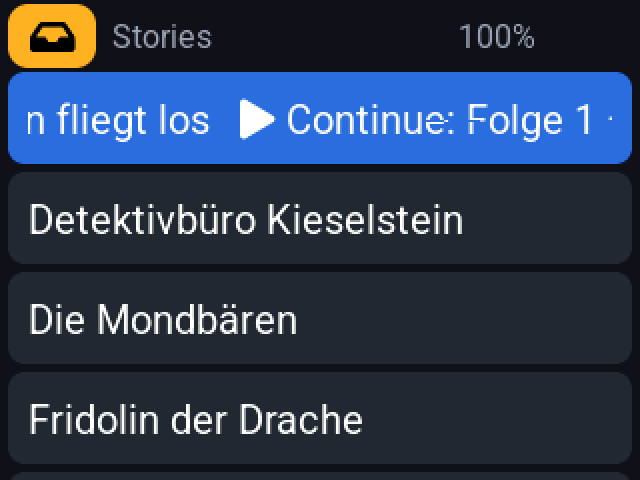
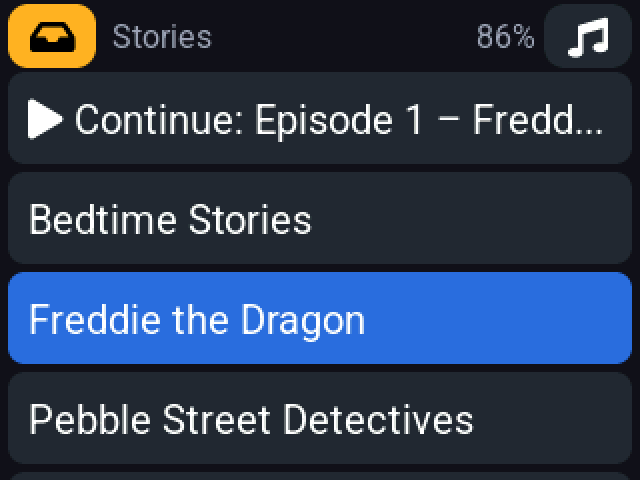
Website: findable and shareable, English screenshots, clearer FAQ
- CI writes the German texts into index.html (tools/prerender.mjs), so
  search engines and link previews see the page without JavaScript;
  home.js stays the only source. Open Graph image and tags, canonical,
  robots.txt, sitemap.xml, a page title that says what it is.
- FAQ: we sell nothing, the device comes from its maker or a shop;
  how it differs from a Toniebox; other ESP32 devices (requests and
  ports welcome); library CDs may be copied privately in Germany.
- The English page shows English screenshots from an English demo
  library.
- Firmware: the ripper screen showed the CD type and the NAS counter
  in German on English devices.

diff --git a/web/home.js b/web/home.js
@@ -2,7 +2,7 @@
 // Texts are our own and may contain simple markup, so they go in as HTML.
 const TEXTS = {
   de: {
-    page_title: "Flüstertüte – Hörspiele vom eigenen NAS",
+    page_title: "Flüstertüte – Hörspiel-Player für Kinder, direkt vom eigenen NAS",
     hero_title: "Hörspiele, die durch die Luft kommen.",
     hero_lead: "Die Flüstertüte ist ein kleiner Hörspiel-Player für Kinder. Er spielt die Hörspiele, die Sie schon haben – per WLAN direkt von Ihrem eigenen NAS. <b>Ohne Figuren zum Nachkaufen, ohne Cloud, ohne Konto.</b>",
     cta_setup: "Jetzt einrichten",
@@ -63,7 +63,7 @@ const TEXTS = {
     kids_6_t: "Neues kommt von allein",
     kids_6: "Legen Sie ein neues Hörspiel auf das NAS, taucht es kurz darauf auf dem Gerät auf. Kein Kabel, kein Kopieren.",
     need_title: "Was Sie brauchen",
-    need_lead: "Eines dieser beiden Geräte. Beide gibt es fertig zu kaufen, mit Bildschirm und Lautsprecher, und beide lassen sich ohne Löten einrichten.",
+    need_lead: "Eines dieser beiden Geräte. Beide gibt es fertig zu kaufen, mit Bildschirm und Lautsprecher, bei den Herstellern LilyGo bzw. M5Stack oder im Elektronikhandel, und beide lassen sich ohne Löten einrichten.",
     dev_tdeck: "Mit kleiner Tastatur und Trackball. Gut für Kinder, die schon lesen und selbst suchen wollen. Läuft auch ganz ohne Akku, einfach an einem USB-Netzteil, etwa fest neben dem Bett. Wer ihn herumtragen will, bestellt einen Akku dazu (je nach Angebot ist er schon dabei).",
     dev_core2: "Ein kompaktes Kästchen mit Touchscreen und eingebautem Akku. Gut für die Kleineren. Wichtig: Version <b>v1.1</b>.",
     need_nas: "<b>Ein NAS mit Ihren Hörspielen.</b> Am einfachsten eine Synology; sonst jedes NAS oder jeder Server mit WebDAV (QNAP, Nextcloud und viele mehr).",
@@ -91,13 +91,17 @@ const TEXTS = {
     faq_nas_q: "Ich habe kein NAS. Geht es trotzdem?",
     faq_nas_a: "Die Flüstertüte braucht einen Ort, der die Dateien per WebDAV oder als Synology-Freigabelink anbietet. Das kann auch eine Nextcloud oder ein anderer Server sein, den Sie schon haben. Eine reine USB-Festplatte oder Speicherkarte genügt nicht.",
     faq_where_q: "Woher kommen die Hörspiele?",
-    faq_where_a: "Von Ihnen: von Ihren eigenen CDs, am bequemsten mit der <a href=\"#cd-station\">CD-Ripstation</a> oder einem Programm am Computer, oder aus gekauften MP3-Downloads. Die Flüstertüte bringt keine Hörspiele mit und lädt nichts aus dem Internet.",
+    faq_where_a: "Von Ihnen: von Ihren eigenen CDs, am bequemsten mit der <a href=\"#cd-station\">CD-Ripstation</a> oder einem Programm am Computer, oder aus gekauften MP3-Downloads. Auch CDs aus der Bücherei kommen in Frage: In Deutschland erlaubt das Urheberrecht einzelne Kopien für den privaten Gebrauch, auch von geliehenen CDs (§ 53 UrhG); die Kopie bleibt in der Familie. <i>(Keine Rechtsberatung; in anderen Ländern kann das anders sein.)</i> Die Flüstertüte bringt keine Hörspiele mit und lädt nichts aus dem Internet.",
     faq_safe_q: "Ist das sicher für Kinder?",
     faq_safe_a: "Das Gerät kann nur Ihre Hörspiele abspielen. Es hat keinen Browser, keine Werbung, keinen Shop und kein Konto. Es kennt nur Ihren Ordner und liest dort nur; es ändert oder löscht nie etwas.",
     faq_pw_q: "Was passiert mit meinen Passwörtern?",
     faq_pw_a: "Die Einrichtungsseite läuft komplett in Ihrem Browser. WLAN- und NAS-Passwort gehen über das USB-Kabel direkt aufs Gerät, nicht an uns und nicht ins Internet. Bei Synology kennt das Gerät außerdem nur den Freigabelink, nie Ihr Konto-Passwort.",
+    faq_tonie_q: "Was ist anders als bei einer Toniebox?",
+    faq_tonie_a: "Die Toniebox spielt Inhalte, die zu gekauften Figuren gehören oder aus der Cloud des Herstellers kommen; dafür braucht es ein Konto. Die Flüstertüte spielt einfach die Dateien, die schon auf Ihrem NAS liegen: keine Figuren, kein Konto, keine Hersteller-Cloud. Ihr Kind wählt die Folge auf dem Bildschirm aus. Dafür ist sie ein Bastelprojekt: Sie kaufen selbst ein fertiges Gerät (T-Deck oder Core2) im Handel und spielen die Software im Browser auf. „Toniebox“ ist eine Marke der tonies GmbH; die Flüstertüte hat damit nichts zu tun.",
     faq_cost_q: "Was kostet das?",
-    faq_cost_a: "Die Software ist kostenlos und quelloffen (MIT-Lizenz). Sie kaufen nur das Gerät, einmal. Keine Abos, keine Figuren.",
+    faq_cost_a: "Die Flüstertüte ist kostenlos und quelloffen (MIT-Lizenz). Wir verkaufen nichts: Das Gerät kaufen Sie selbst, direkt beim Hersteller (LilyGo bzw. M5Stack) oder im Elektronikhandel, einmal. Danach kostet nichts mehr etwas: keine Abos, keine Figuren, kein Konto.",
+    faq_port_q: "Läuft die Flüstertüte auch auf anderen Geräten?",
+    faq_port_a: "Bisher auf dem LilyGo T-Deck und dem M5Stack Core2. Die Software lässt sich aber auf andere ESP32-Geräte mit Touchscreen, Lautsprecher, WLAN und PSRAM übertragen; davon gibt es viele. Haben Sie ein solches Gerät und hätten es gern unterstützt? Wünsche sind willkommen: als Issue auf <a href=\"https://github.com/zeromips/fluestertuete/issues\">GitHub</a> oder per Mail an <a href=\"mailto:fluestertuete@zeromips.org\">fluestertuete@zeromips.org</a>. Wer selbst portiert, ist mit einem Pull Request herzlich eingeladen.",
     faq_browser_q: "Geht das Einrichten auch mit Firefox, Safari oder dem Handy?",
     faq_browser_a: "Direkt aus dem Browser aufs Gerät geht es nur mit Chrome oder Edge auf einem Computer. Für Firefox und Safari erstellt die Einrichtungsseite ein Paket, das Sie mit dem kostenlosen Werkzeug „esptool“ aufspielen. Vom Handy aus geht es nicht.",
     faq_bt_q: "Kann die Flüstertüte über einen Bluetooth-Lautsprecher spielen?",
@@ -110,7 +114,7 @@ const TEXTS = {
     privacy_page: "Datenschutz",
   },
   en: {
-    page_title: "Flüstertüte – audio stories from your own NAS",
+    page_title: "Flüstertüte – audio story player for children, straight from your own NAS",
     hero_title: "Stories that travel through the air.",
     hero_lead: "Flüstertüte is a small audio story player for children. It plays the stories you already own, over Wi-Fi, straight from your own NAS. <b>No figurines to buy, no cloud, no account.</b>",
     cta_setup: "Set it up now",
@@ -139,9 +143,9 @@ const TEXTS = {
     shots_title: "What it looks like",
     shots_lead: "Real screenshots from the device (M5Stack Core2) with a sample library. The device also speaks English, as in the first picture.",
     shot_home: "The home list: “Continue” at the top, the series below.",
-    shot_home_alt: "List with Continue and the series Detektivbüro Kieselstein, Die Mondbären, Fridolin der Drache",
+    shot_home_alt: "List with Continue and the series Bedtime Stories, Freddie the Dragon, Pebble Street Detectives",
     shot_series: "A series with its episodes, in the right order.",
-    shot_series_alt: "List of the episodes of Fridolin der Drache",
+    shot_series_alt: "List of the episodes of Freddie the Dragon",
     shot_player: "The player: big buttons, 30 seconds back and forth, volume.",
     shot_player_alt: "Player screen with title, progress bar and big buttons",
     shot_tracks: "All tracks of a story, the current one highlighted.",
@@ -149,7 +153,7 @@ const TEXTS = {
     shot_start: "When switched on: connecting to Wi-Fi and the NAS.",
     shot_start_alt: "Start screen with the Flüstertüte logo",
     shot_ripper: "The CD ripping station on Flüstertüte: progress, sorting, eject.",
-    shot_ripper_alt: "Ripper screen: ripping 62 percent, type children, last finished Die Mondbären",
+    shot_ripper_alt: "Ripper screen: ripping 62 percent, type kids, last finished The Moon Bears in the Snow",
     how_title: "How it works",
     how_1_t: "1. Your stories",
     how_1: "sit on your NAS as MP3 files, one folder per story. Ripped from your own CDs, for example.",
@@ -171,7 +175,7 @@ const TEXTS = {
     kids_6_t: "New stories just appear",
     kids_6: "Put a new story on the NAS and it shows up on the device shortly after. No cable, no copying.",
     need_title: "What you need",
-    need_lead: "One of these two devices. Both come ready-made with a screen and a speaker, and neither needs any soldering.",
+    need_lead: "One of these two devices. Both come ready-made with a screen and a speaker, from their makers LilyGo and M5Stack or from electronics shops, and neither needs any soldering.",
     dev_tdeck: "With a small keyboard and a trackball. Good for children who can read and want to search on their own. It also runs without a battery, simply from a USB power supply, say next to the bed. To carry it around, add a battery (some offers include one).",
     dev_core2: "A compact little box with a touchscreen and a built-in battery. Good for the younger ones. Important: version <b>v1.1</b>.",
     need_nas: "<b>A NAS with your stories.</b> A Synology is easiest; otherwise any NAS or server with WebDAV (QNAP, Nextcloud and many more).",
@@ -199,13 +203,17 @@ const TEXTS = {
     faq_nas_q: "I don’t have a NAS. Does it still work?",
     faq_nas_a: "Flüstertüte needs something that offers the files over WebDAV or as a Synology share link. That can be a Nextcloud or another server you already have. A plain USB disk or memory card is not enough.",
     faq_where_q: "Where do the stories come from?",
-    faq_where_a: "From you: ripped from your own CDs, most easily with the <a href=\"#cd-station\">CD ripping station</a> or a program on your computer, or bought as MP3 downloads. Flüstertüte brings no stories along and downloads nothing from the internet.",
+    faq_where_a: "From you: ripped from your own CDs, most easily with the <a href=\"#cd-station\">CD ripping station</a> or a program on your computer, or bought as MP3 downloads. CDs from the public library can work too: in Germany, copyright law allows single copies for private use, borrowed CDs included (§ 53 UrhG); the copy stays in the family. <i>(Not legal advice; other countries may differ.)</i> Flüstertüte brings no stories along and downloads nothing from the internet.",
     faq_safe_q: "Is it safe for children?",
     faq_safe_a: "The device can only play your stories. It has no browser, no ads, no shop and no account. It only knows your folder and only reads from it; it never changes or deletes anything.",
     faq_pw_q: "What happens to my passwords?",
     faq_pw_a: "The setup page runs entirely in your browser. Wi-Fi and NAS passwords go over the USB cable straight to the device, not to us and not to the internet. With a Synology the device only ever knows the share link, never your account password.",
+    faq_tonie_q: "How is it different from a Toniebox?",
+    faq_tonie_a: "A Toniebox plays content that belongs to figurines you buy or that comes from the maker’s cloud, and it needs an account. Flüstertüte simply plays the files already on your NAS: no figurines, no account, no maker’s cloud. Your child picks the episode on the screen. In return it is a DIY project: you buy a ready-made device (T-Deck or Core2) from a shop yourself and install the software from your browser. “Toniebox” is a trademark of tonies GmbH; Flüstertüte has nothing to do with it.",
     faq_cost_q: "What does it cost?",
-    faq_cost_a: "The software is free and open source (MIT license). You only buy the device, once. No subscriptions, no figurines.",
+    faq_cost_a: "Flüstertüte is free and open source (MIT license). We sell nothing: you buy the device yourself, from its maker (LilyGo or M5Stack) or an electronics shop, once. After that nothing costs anything: no subscriptions, no figurines, no account.",
+    faq_port_q: "Does Flüstertüte run on other devices?",
+    faq_port_a: "So far on the LilyGo T-Deck and the M5Stack Core2. But the software can be brought to other ESP32 devices with a touchscreen, a speaker, Wi-Fi and PSRAM, and there are many of those. Do you have one and would like it supported? Requests are welcome: as an issue on <a href=\"https://github.com/zeromips/fluestertuete/issues\">GitHub</a> or by mail to <a href=\"mailto:fluestertuete@zeromips.org\">fluestertuete@zeromips.org</a>. If you port it yourself, a pull request is very welcome.",
     faq_browser_q: "Can I set it up with Firefox, Safari or a phone?",
     faq_browser_a: "Installing straight from the browser only works with Chrome or Edge on a computer. For Firefox and Safari the setup page builds a package you install with the free tool “esptool”. A phone won’t do.",
     faq_bt_q: "Can Flüstertüte play through a Bluetooth speaker?",

diff --git a/web/index.html b/web/index.html
@@ -4,7 +4,20 @@
 <meta charset="utf-8">
 <meta name="viewport" content="width=device-width, initial-scale=1">
 <title>Flüstertüte</title>
-<meta name="description" content="Ein kleiner Hörspiel-Player für Kinder, der die eigenen Hörspiele per WLAN vom NAS spielt. Ohne Figuren, ohne Cloud, ohne Konto.">
+<meta name="description" content="Ein kleiner Hörspiel-Player für Kinder, der die eigenen Hörspiele per WLAN vom NAS spielt. Ohne Figuren, ohne Cloud, ohne Konto. Mit CD-Ripstation: CD rein, fertig.">
+<link rel="canonical" href="https://fluestertuete.zeromips.org/">
+<meta property="og:type" content="website">
+<meta property="og:url" content="https://fluestertuete.zeromips.org/">
+<meta property="og:site_name" content="Flüstertüte">
+<meta property="og:locale" content="de_DE">
+<meta property="og:locale:alternate" content="en_GB">
+<meta property="og:title" content="Flüstertüte – Hörspiel-Player für Kinder, direkt vom eigenen NAS">
+<meta property="og:description" content="Spielt die Hörspiele, die Sie schon haben, per WLAN vom eigenen NAS. Ohne Figuren, ohne Cloud, ohne Konto. Freie Software für LilyGo T-Deck und M5Stack Core2.">
+<meta property="og:image" content="https://fluestertuete.zeromips.org/og.png">
+<meta property="og:image:width" content="1200">
+<meta property="og:image:height" content="630">
+<meta property="og:image:alt" content="Flüstertüte: Logo und der Startbildschirm des Geräts mit einer Liste von Hörspiel-Serien">
+<meta name="twitter:card" content="summary_large_image">
 <link rel="icon" href="favicon.ico" sizes="48x48">
 <link rel="icon" href="logo.svg" type="image/svg+xml">
 <link rel="apple-touch-icon" href="apple-touch-icon.png">
@@ -89,10 +102,10 @@
     <p class="sub" data-t="shots_lead"></p>
     <div class="gallery">
       <figure class="shot"><div class="bezel"><img src="shots/home.png" data-src-en="shots/home-en.png" width="320" height="240" loading="lazy" alt="" data-alt="shot_home_alt"></div><figcaption data-t="shot_home"></figcaption></figure>
-      <figure class="shot"><div class="bezel"><img src="shots/series.png" width="320" height="240" loading="lazy" alt="" data-alt="shot_series_alt"></div><figcaption data-t="shot_series"></figcaption></figure>
-      <figure class="shot"><div class="bezel"><img src="shots/player.png" width="320" height="240" loading="lazy" alt="" data-alt="shot_player_alt"></div><figcaption data-t="shot_player"></figcaption></figure>
-      <figure class="shot"><div class="bezel"><img src="shots/tracks.png" width="320" height="240" loading="lazy" alt="" data-alt="shot_tracks_alt"></div><figcaption data-t="shot_tracks"></figcaption></figure>
-      <figure class="shot"><div class="bezel"><img src="shots/start.png" width="320" height="240" loading="lazy" alt="" data-alt="shot_start_alt"></div><figcaption data-t="shot_start"></figcaption></figure>
+      <figure class="shot"><div class="bezel"><img src="shots/series.png" data-src-en="shots/series-en.png" width="320" height="240" loading="lazy" alt="" data-alt="shot_series_alt"></div><figcaption data-t="shot_series"></figcaption></figure>
+      <figure class="shot"><div class="bezel"><img src="shots/player.png" data-src-en="shots/player-en.png" width="320" height="240" loading="lazy" alt="" data-alt="shot_player_alt"></div><figcaption data-t="shot_player"></figcaption></figure>
+      <figure class="shot"><div class="bezel"><img src="shots/tracks.png" data-src-en="shots/tracks-en.png" width="320" height="240" loading="lazy" alt="" data-alt="shot_tracks_alt"></div><figcaption data-t="shot_tracks"></figcaption></figure>
+      <figure class="shot"><div class="bezel"><img src="shots/start.png" data-src-en="shots/start-en.png" width="320" height="240" loading="lazy" alt="" data-alt="shot_start_alt"></div><figcaption data-t="shot_start"></figcaption></figure>
     </div>
   </section>
 
@@ -134,7 +147,7 @@
       <p class="sub" data-t="rip_need"></p>
       <div class="cta"><a class="btn primary" href="ripstation.html" data-t="rip_cta"></a></div>
     </div>
-    <figure class="shot rip-shot"><div class="bezel"><img src="shots/ripper.png" width="320" height="240" loading="lazy" alt="" data-alt="shot_ripper_alt"></div><figcaption data-t="shot_ripper"></figcaption></figure>
+    <figure class="shot rip-shot"><div class="bezel"><img src="shots/ripper.png" data-src-en="shots/ripper-en.png" width="320" height="240" loading="lazy" alt="" data-alt="shot_ripper_alt"></div><figcaption data-t="shot_ripper"></figcaption></figure>
   </section>
 
   <!-- For the kids -->
@@ -210,7 +223,9 @@
       <details><summary data-t="faq_where_q"></summary><p data-t="faq_where_a"></p></details>
       <details><summary data-t="faq_safe_q"></summary><p data-t="faq_safe_a"></p></details>
       <details><summary data-t="faq_pw_q"></summary><p data-t="faq_pw_a"></p></details>
+      <details><summary data-t="faq_tonie_q"></summary><p data-t="faq_tonie_a"></p></details>
       <details><summary data-t="faq_cost_q"></summary><p data-t="faq_cost_a"></p></details>
+      <details><summary data-t="faq_port_q"></summary><p data-t="faq_port_a"></p></details>
       <details><summary data-t="faq_browser_q"></summary><p data-t="faq_browser_a"></p></details>
       <details><summary data-t="faq_bt_q"></summary><p data-t="faq_bt_a"></p></details>
       <details><summary data-t="faq_help_q"></summary><p data-t="faq_help_a"></p></details>

diff --git a/main/ui.c b/main/ui.c
@@ -632,10 +632,12 @@ static void update_ripper(void)
         snprintf(text, sizeof(text), "%s%s%s", st.artist, st.artist[0] && st.album[0] ? " \xE2\x80\x93 " : "", st.album);
     else text[0] = 0;
     set_text(s_rip.title, text);
+    // The station names the class in German (its API contract): show the device's own name for it.
+    const char *cls = st.detected >= 0 ? ripper_cls_name((rip_cls_t)st.detected) : st.cls;
     if (!st.online) snprintf(text, sizeof(text), "%s", tr(S_PI_ON));
-    else if (st.message[0] && st.cls[0]) snprintf(text, sizeof(text), "%s \xC2\xB7 %s", st.cls, st.message);
-    else if (st.message[0] || st.cls[0]) snprintf(text, sizeof(text), "%s", st.message[0] ? st.message : st.cls);
-    else if (st.waiting || st.failed) snprintf(text, sizeof(text), "%d warten aufs NAS, %d fehlgeschlagen", st.waiting, st.failed);
+    else if (st.message[0] && cls[0]) snprintf(text, sizeof(text), "%s \xC2\xB7 %s", cls, st.message);
+    else if (st.message[0] || cls[0]) snprintf(text, sizeof(text), "%s", st.message[0] ? st.message : cls);
+    else if (st.waiting || st.failed) snprintf(text, sizeof(text), tr(S_RIP_WAITING), st.waiting, st.failed);
     else text[0] = 0;
     set_text(s_rip.sub, text);
     if (st.progress >= 0) {

diff --git a/main/i18n.h b/main/i18n.h
@@ -20,7 +20,7 @@ typedef enum {
     S_CD_RIPPER, S_RIPPER_UNREACHABLE, S_RIP_IDLE, S_RIP_READING, S_RIP_RIPPING, S_RIP_DELIVERING, S_RIP_DONE,
     S_RIP_ERROR, S_RIP_UNKNOWN, S_CLS_KIDS, S_CLS_SPOKEN, S_CLS_MUSIC, S_CLS_UNSORTED, S_BTN_KIDS, S_EJECT,
     S_RIP_ANYWAY, S_WILL_RIP, S_LAST_DONE, S_EJECTING, S_EJECTED, S_TYPE_ONLY_WHILE_RIPPING, S_TYPE_WRONG_FORMAT,
-    S_NOT_REACHABLE, S_SEARCHING_RIPPER, S_PI_ON, S_NEW_DRAMA, S_CD_DONE, S_TYPE_CHANGE_WHILE, S_TYPE_CHANGED,
+    S_NOT_REACHABLE, S_SEARCHING_RIPPER, S_PI_ON, S_NEW_DRAMA, S_CD_DONE, S_TYPE_CHANGE_WHILE, S_TYPE_CHANGED, S_RIP_WAITING,
     S_TYPE_OF_CD, S_OTHER_ALBUM, S_TYPE_SET, S_NEXT_CD_RIPPED, S_CANCELLED, S_ERROR_N,
     S_COUNT
 } str_t;

diff --git a/main/i18n.c b/main/i18n.c
@@ -85,6 +85,7 @@ static const char *const T[S_COUNT][LANG_COUNT] = {
     [S_CD_DONE] = {"CD fertig: %s", "CD done: %s"},
     [S_TYPE_CHANGE_WHILE] = {"Typ \xC3\xA4ndern geht w\xC3\xA4hrend des Rippens", "The type can be changed while ripping"},
     [S_TYPE_CHANGED] = {"Typ ge\xC3\xA4ndert, erkannt war %s", "Type changed, detected: %s"},
+    [S_RIP_WAITING] = {"%d warten aufs NAS, %d fehlgeschlagen", "%d waiting for the NAS, %d failed"},
     [S_TYPE_OF_CD] = {"Typ dieser CD:", "Type of this CD:"},
     [S_OTHER_ALBUM] = {" \xC2\xB7 anderes Album vorgemerkt", " \xC2\xB7 other album chosen"},
     [S_TYPE_SET] = {"Typ: %s", "Type: %s"},
